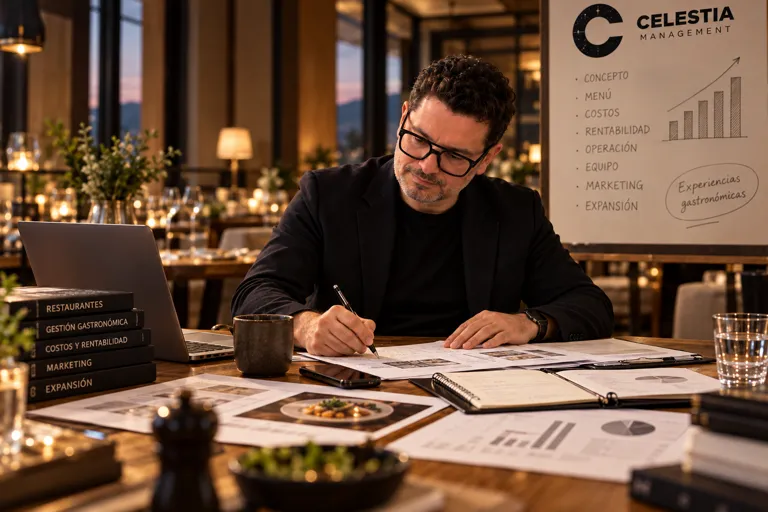
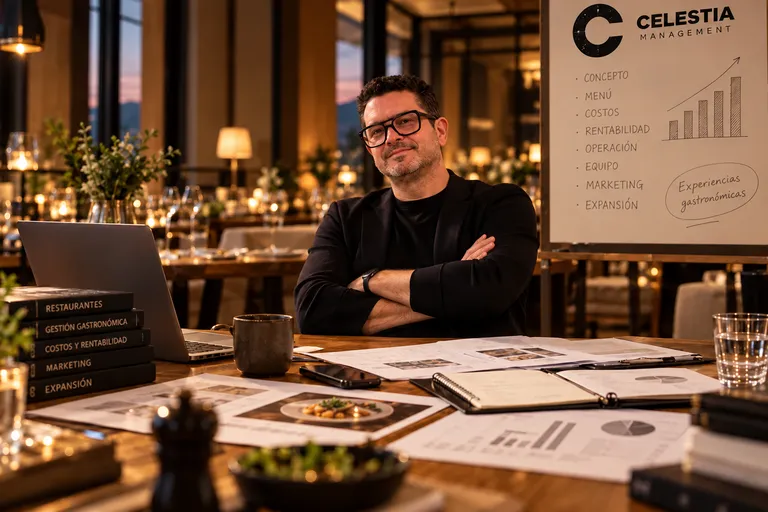
Management: secciones Para quién, Cómo trabajamos y Guía con el estilo de la rueda + nueva foto del hero
Claude-Session: https://claude.ai/code/session_01MiYNCjYw6ViFGJRujNwW8p

diff --git a/management/index.html b/management/index.html
@@ -95,6 +95,53 @@ section.hero{padding:0}
 .cm-box .err{color:#f3a08f;font-size:13px}
 @media(max-width:960px){.cu-g{grid-template-columns:1fr}.prod-g{grid-template-columns:120px 1fr}}
 .cm-aviso{position:fixed;left:50%;top:76px;transform:translateX(-50%);z-index:120;background:#FAF6EF;color:#0D1B2A;border:1px solid #C9A84C;border-radius:14px;padding:12px 18px;font-size:14px;box-shadow:0 14px 34px rgba(0,0,0,.3);max-width:calc(100% - 32px)}.cm-aviso a{color:#8A6A20}
+/* secciones con estilo de la rueda */
+.lx{position:relative;overflow:hidden;color:var(--cr);background:radial-gradient(70% 60% at 85% 0%,rgba(232,201,106,.10),transparent 60%),radial-gradient(60% 60% at 0% 100%,rgba(42,82,120,.35),transparent 60%),linear-gradient(180deg,#0B1726,#0D1B2A)}
+.lx::before{content:'';position:absolute;inset:0;background-image:radial-gradient(rgba(232,201,106,.35) 1px,transparent 1.2px);background-size:46px 46px;opacity:.12;pointer-events:none;mask-image:linear-gradient(180deg,transparent,#000 30%,#000 70%,transparent)}
+.lx .wrap{position:relative}
+.lx h2{color:var(--cr)}.lx h2 em{color:var(--gdl)}.lx .sub{color:rgba(250,246,239,.7)}.lx .k{color:var(--gdl)}
+.lx .k::before{content:'';display:inline-block;width:26px;height:1px;background:var(--gd);vertical-align:middle;margin-right:10px}
+/* para quién */
+.pq-g{display:grid;grid-template-columns:repeat(4,1fr);gap:16px;margin-top:38px}
+.pq{position:relative;border-radius:22px;padding:26px 22px 22px;background:linear-gradient(160deg,rgba(255,255,255,.07),rgba(255,255,255,.02));border:1px solid rgba(201,168,76,.25);backdrop-filter:blur(6px);transition:transform .35s cubic-bezier(.2,.8,.2,1),border-color .35s,box-shadow .35s;display:flex;flex-direction:column;gap:10px}
+.pq:hover{transform:translateY(-6px);border-color:rgba(232,201,106,.7);box-shadow:0 22px 50px rgba(0,0,0,.45),0 0 0 1px rgba(232,201,106,.15),0 0 40px rgba(232,201,106,.12)}
+.pq-n{position:absolute;right:18px;top:12px;font-family:'DM Serif Display',serif;font-size:44px;line-height:1;color:rgba(232,201,106,.14)}
+.pq-ic{width:58px;height:58px;border-radius:50%;display:flex;align-items:center;justify-content:center;background:radial-gradient(circle at 38% 30%,#FFF1BF,#E8C96A 45%,#9C7A28);box-shadow:0 8px 22px rgba(201,168,76,.35),inset 0 -4px 8px rgba(0,0,0,.2)}
+.pq-ic svg{width:28px;height:28px;fill:none;stroke:#0D1B2A;stroke-width:1.9;stroke-linecap:round;stroke-linejoin:round}
+.pq b{font-family:'DM Serif Display',serif;font-weight:400;font-size:23px;line-height:1.15;margin-top:6px}
+.pq p{font-size:14.5px;color:rgba(250,246,239,.7);line-height:1.6}
+.pq a{margin-top:auto;padding-top:8px;color:var(--gdl);font-size:13px;font-weight:600;text-decoration:none}
+.pq a:hover{text-decoration:underline}
+/* cómo trabajamos */
+.tl{position:relative;display:grid;grid-template-columns:repeat(4,1fr);gap:18px;margin-top:46px}
+.tl-line{position:absolute;left:12.5%;right:12.5%;top:36px;height:3px;background:rgba(201,168,76,.18);border-radius:3px}
+.tl-line i{position:absolute;inset:0 auto 0 0;width:0;background:linear-gradient(90deg,#9C7A28,#E8C96A,#FFF1BF);border-radius:3px;box-shadow:0 0 14px rgba(232,201,106,.6);transition:width 1.8s cubic-bezier(.2,.8,.2,1)}
+.tl-s{position:relative;text-align:center;padding:0 8px}
+.tl-b{position:relative;z-index:1;width:74px;height:74px;margin:0 auto 18px;border-radius:50%;display:flex;align-items:center;justify-content:center;font-family:'DM Serif Display',serif;font-size:32px;color:var(--gdl);background:radial-gradient(circle at 38% 28%,#2E5277,#173451 55%,#0B1826);border:2px solid rgba(232,201,106,.7);box-shadow:0 12px 26px rgba(0,0,0,.5),0 0 0 8px rgba(13,27,42,.9),0 0 30px rgba(232,201,106,.15);transition:.5s}
+.tl-s.on .tl-b{background:radial-gradient(circle at 38% 30%,#FFF1BF,#E8C96A 45%,#9C7A28);color:#0D1B2A;box-shadow:0 12px 26px rgba(0,0,0,.5),0 0 0 8px rgba(13,27,42,.9),0 0 36px rgba(232,201,106,.45)}
+.tl-s b{display:block;font-family:'DM Serif Display',serif;font-weight:400;font-size:22px;margin-bottom:6px}
+.tl-s p{font-size:14px;color:rgba(250,246,239,.7);line-height:1.6}
+.tl-s small{display:inline-block;margin-top:10px;font-size:11px;letter-spacing:.14em;text-transform:uppercase;color:var(--gdl);border:1px solid rgba(201,168,76,.35);border-radius:999px;padding:4px 11px}
+/* guía */
+.gu{display:grid;grid-template-columns:1.15fr .85fr;gap:22px;margin-top:34px;align-items:stretch}
+.gu-card{display:grid;grid-template-columns:240px 1fr;gap:24px;padding:24px;border-radius:26px;text-decoration:none;color:var(--cr);background:linear-gradient(150deg,rgba(232,201,106,.14),rgba(255,255,255,.03) 45%);border:1px solid rgba(232,201,106,.45);box-shadow:0 30px 60px rgba(0,0,0,.4);transition:transform .35s,box-shadow .35s}
+.gu-card:hover{transform:translateY(-4px);box-shadow:0 36px 70px rgba(0,0,0,.5),0 0 50px rgba(232,201,106,.15)}
+.gu-img{position:relative;border-radius:18px;overflow:hidden;transform:perspective(800px) rotateY(-8deg) rotateX(3deg);box-shadow:18px 22px 40px rgba(0,0,0,.55);transition:transform .5s}
+.gu-card:hover .gu-img{transform:perspective(800px) rotateY(0) rotateX(0)}
+.gu-img img{width:100%;height:100%;object-fit:cover;aspect-ratio:3/4}
+.gu-img span{position:absolute;left:10px;top:10px;background:rgba(13,27,42,.85);color:var(--gdl);border:1px solid rgba(201,168,76,.45);border-radius:999px;padding:4px 10px;font-size:11px;letter-spacing:.12em;text-transform:uppercase}
+.gu-b h3{font-family:'DM Serif Display',serif;font-weight:400;font-size:26px;line-height:1.18}
+.gu-pr{display:flex;align-items:center;gap:12px;margin:16px 0 6px}.gu-pr b{font-family:'DM Serif Display',serif;font-weight:400;font-size:46px;line-height:1;color:var(--gdl)}.gu-pr span{font-size:12px;line-height:1.4;color:rgba(250,246,239,.55);text-transform:uppercase;letter-spacing:.08em}
+.gu-b ul{list-style:none;margin:10px 0 20px}.gu-b li{padding:5px 0 5px 24px;position:relative;font-size:14.5px;color:rgba(250,246,239,.82)}.gu-b li::before{content:'✦';position:absolute;left:2px;color:var(--gdl)}
+.gu-n{display:flex;flex-direction:column;gap:10px}
+.gu-nk{font-size:11.5px;letter-spacing:.16em;text-transform:uppercase;color:rgba(250,246,239,.5);font-weight:600;margin-bottom:2px}
+.nt{display:flex;gap:14px;align-items:center;padding:14px 16px;border-radius:16px;text-decoration:none;color:var(--cr);background:rgba(255,255,255,.04);border:1px solid rgba(201,168,76,.2);transition:.3s}
+.nt:hover{border-color:var(--gdl);background:rgba(232,201,106,.07);transform:translateX(4px)}
+.nt-i{width:44px;height:44px;flex-shrink:0;border-radius:12px;display:flex;align-items:center;justify-content:center;background:rgba(232,201,106,.12);border:1px solid rgba(232,201,106,.35)}
+.nt-i svg{width:22px;height:22px;fill:none;stroke:#E8C96A;stroke-width:1.8;stroke-linecap:round;stroke-linejoin:round}
+.nt b{display:block;font-size:14.5px;line-height:1.35}.nt small{color:rgba(250,246,239,.55);font-size:12.5px}
+@media(max-width:1000px){.pq-g{grid-template-columns:1fr 1fr}.gu{grid-template-columns:1fr}}
+@media(max-width:700px){.pq-g{grid-template-columns:1fr}.tl{grid-template-columns:1fr;gap:26px}.tl-line{left:36px;right:auto;top:20px;bottom:20px;width:3px;height:auto}.tl-line i{width:100%!important;height:0;transition:height 1.8s}.tl-s{display:grid;grid-template-columns:74px 1fr;gap:4px 16px;text-align:left;padding:0}.tl-b{grid-row:span 3;margin:0}.tl-s small{justify-self:start}.gu-card{grid-template-columns:1fr}.gu-img{max-width:260px;transform:none}}
 /* rueda */
 .rd-sec{background:radial-gradient(90% 70% at 20% 30%,#16304a 0%,var(--nv) 60%);color:var(--cr)}
 .rd-sec h2{color:var(--cr)}.rd-sec h2 em{color:var(--gdl)}.rd-sec .sub{color:rgba(250,246,239,.7)}.rd-sec .k{color:var(--gdl)}
@@ -240,15 +287,15 @@ footer{background:var(--nv);color:rgba(250,246,239,.6);text-align:center;padding
   </aside>
 </section>
 
-<section><div class="wrap">
+<section class="lx lx-pq"><div class="wrap">
   <span class="k">Para quién</span>
   <h2>Si tenés un proyecto gastronómico, <em>esto es para vos</em></h2>
   <p class="sub">Trabajo con quienes están arrancando y con quienes ya tienen el local abierto y quieren que los números cierren.</p>
-  <div class="quien-g">
-    <div class="qc"><i>🚀</i><b>Vas a abrir tu primer local</b><p>Concepto, ubicación, carta, inversión y el plan para llegar al día de apertura sin sorpresas.</p></div>
-    <div class="qc"><i>📉</i><b>Vendés bien pero no te queda</b><p>Food cost, precios, mermas y compras: encontramos dónde se va la plata.</p></div>
-    <div class="qc"><i>📈</i><b>Querés crecer</b><p>Una sucursal, delivery, un producto nuevo o eventos: lo ordenamos antes de escalar.</p></div>
-    <div class="qc"><i>🍱</i><b>Producís comida</b><p>Viandas, congelados, pastelería o catering: estandarizar recetas, costos y procesos.</p></div>
+  <div class="pq-g">
+    <article class="pq"><span class="pq-n">01</span><span class="pq-ic"><svg viewBox="0 0 24 24"><path d="M5 21h14M6 21V10l6-5 6 5v11M10 21v-6h4v6"/></svg></span><b>Vas a abrir tu primer local</b><p>Concepto, ubicación, carta, inversión y el plan para llegar al día de apertura sin sorpresas.</p><a href="#diagnostico" data-m="0">Empezar por Concepto →</a></article>
+    <article class="pq"><span class="pq-n">02</span><span class="pq-ic"><svg viewBox="0 0 24 24"><path d="M3 6l6 6 4-4 8 8M21 11v5h-5"/></svg></span><b>Vendés bien pero no te queda</b><p>Food cost, precios, mermas y compras: encontramos dónde se va la plata.</p><a href="#diagnostico" data-m="2">Empezar por Costeo →</a></article>
+    <article class="pq"><span class="pq-n">03</span><span class="pq-ic"><svg viewBox="0 0 24 24"><path d="M3 17l6-6 4 4 8-8M15 7h6v6"/></svg></span><b>Querés crecer</b><p>Una sucursal, delivery, un producto nuevo o eventos: lo ordenamos antes de escalar.</p><a href="#diagnostico" data-m="5">Empezar por Finanzas →</a></article>
+    <article class="pq"><span class="pq-n">04</span><span class="pq-ic"><svg viewBox="0 0 24 24"><path d="M4 11h16v3a7 7 0 0 1-7 7h-2a7 7 0 0 1-7-7v-3zM8 7c0-1.5 1-2 1-3.5M12 7c0-1.5 1-2 1-3.5M16 7c0-1.5 1-2 1-3.5"/></svg></span><b>Producís comida</b><p>Viandas, congelados, pastelería o catering: estandarizar recetas, costos y procesos.</p><a href="#diagnostico" data-m="3">Empezar por Operación →</a></article>
   </div>
 </div></section>
 
@@ -326,14 +373,15 @@ footer{background:var(--nv);color:rgba(250,246,239,.6);text-align:center;padding
   <p class="rw-nota">Los valores son referenciales y pueden variar según el alcance y la complejidad del proyecto.</p>
 </div></section>
 
-<section><div class="wrap">
+<section class="lx lx-ct"><div class="wrap">
   <span class="k">Cómo trabajamos</span>
   <h2>Simple y <em>con números</em></h2>
-  <div class="pasos">
-    <div class="pa"><i>1</i><b>Diagnóstico</b><p>Una reunión sin costo para entender tu proyecto y dónde estás parado.</p></div>
-    <div class="pa"><i>2</i><b>Propuesta</b><p>Te paso qué módulos trabajar, tiempos y presupuesto cerrado.</p></div>
-    <div class="pa"><i>3</i><b>Implementación</b><p>Trabajamos juntos, en tu local y a distancia, con entregables concretos.</p></div>
-    <div class="pa"><i>4</i><b>Seguimiento</b><p>Medimos resultados y ajustamos hasta que el negocio camine solo.</p></div>
+  <div class="tl">
+    <div class="tl-line"><i id="tl-fill"></i></div>
+    <div class="tl-s"><span class="tl-b">1</span><b>Diagnóstico</b><p>Una reunión sin costo para entender tu proyecto y dónde estás parado.</p><small>Semana 0</small></div>
+    <div class="tl-s"><span class="tl-b">2</span><b>Propuesta</b><p>Te paso qué módulos trabajar, tiempos y presupuesto cerrado.</p><small>En 72 horas</small></div>
+    <div class="tl-s"><span class="tl-b">3</span><b>Implementación</b><p>Trabajamos juntos, en tu local y a distancia, con entregables concretos.</p><small>Por módulo</small></div>
+    <div class="tl-s"><span class="tl-b">4</span><b>Seguimiento</b><p>Medimos resultados y ajustamos hasta que el negocio camine solo.</p><small>Tablero mensual</small></div>
   </div>
 </div></section>
 
@@ -364,24 +412,25 @@ footer{background:var(--nv);color:rgba(250,246,239,.6);text-align:center;padding
   <p class="cu-nota">¿Ya tenés acceso? <a href="/management/login">Ingresá a tus cursos →</a></p>
 </div></section>
 
-<section id="herramientas" style="padding-top:20px"><div class="wrap">
+<section id="herramientas" class="lx lx-gu"><div class="wrap">
   <span class="k">Material de apoyo</span>
   <h2>Guía de costeo <em>y food cost</em></h2>
-  <div class="her">
-    <a class="prod prod-g" href="/management/guia">
-      <img src="/management/assets/guia.jpg" alt="Guía de costeo y food cost" loading="lazy">
-      <div>
-      <span class="k" style="margin:0">PDF + planilla Excel</span>
-      <h3>La herramienta práctica para costear cada plato y fijar precios con criterio</h3>
-      <div class="pr">$9.900 <small>· pago único · descarga inmediata</small></div>
-      <ul><li>Guía en PDF de 9 capítulos</li><li>Planillas: fichas técnicas, costo por plato y precios</li><li>Para restaurantes, cafés, viandas, rotiserías y delivery</li></ul>
-      <span class="btn">Obtener la guía →</span></div>
+  <div class="gu">
+    <a class="gu-card" href="/management/guia">
+      <div class="gu-img"><img src="/management/assets/guia.jpg" alt="Guía de costeo y food cost" loading="lazy"><span>PDF + Excel</span></div>
+      <div class="gu-b">
+        <h3>La herramienta práctica para costear cada plato y fijar precios con criterio</h3>
+        <div class="gu-pr"><b>$9.900</b><span>pago único<br>descarga inmediata</span></div>
+        <ul><li>Guía en PDF de 9 capítulos</li><li>Planillas: fichas técnicas, costo por plato y precios</li><li>Para restaurantes, cafés, viandas, rotiserías y delivery</li></ul>
+        <span class="bp">Obtener la guía →</span>
+      </div>
     </a>
-    <div class="notas">
-      <a class="nota" href="/blog/ingenieria-de-menu-como-se-arma-una-carta/"><i>📊</i><div><b>Ingeniería de menú: por qué la carta de un restaurante está armada así</b><small>Estrellas, caballitos de batalla, rompecabezas y perros</small></div></a>
-      <a class="nota" href="/blog/manipulacion-de-alimentos-reglas-de-oro/"><i>🧼</i><div><b>Manipulación de alimentos: las reglas de oro</b><small>Lo que tiene que saber todo tu equipo</small></div></a>
-      <a class="nota" href="/blog/como-regenerar-comida-para-que-quede-como-recien-hecha/"><i>🔥</i><div><b>Cómo regenerar comida para que quede recién hecha</b><small>La base de cualquier producción anticipada</small></div></a>
-      <a class="nota" href="/blog"><i>📚</i><div><b>Todas las notas del blog</b><small>Técnica de escuela contada simple</small></div></a>
+    <div class="gu-n">
+      <span class="gu-nk">Para leer gratis</span>
+      <a class="nt" href="/blog/ingenieria-de-menu-como-se-arma-una-carta/"><span class="nt-i"><svg viewBox="0 0 24 24"><path d="M4 20V10M10 20V4M16 20v-7M22 20H2"/></svg></span><span><b>Ingeniería de menú: por qué la carta está armada así</b><small>Estrellas, caballitos de batalla, rompecabezas y perros</small></span></a>
+      <a class="nt" href="/blog/manipulacion-de-alimentos-reglas-de-oro/"><span class="nt-i"><svg viewBox="0 0 24 24"><path d="M12 3l7 3v6c0 4.5-3 7.5-7 9-4-1.5-7-4.5-7-9V6l7-3zM9 12l2 2 4-4"/></svg></span><span><b>Manipulación de alimentos: las reglas de oro</b><small>Lo que tiene que saber todo tu equipo</small></span></a>
+      <a class="nt" href="/blog/como-regenerar-comida-para-que-quede-como-recien-hecha/"><span class="nt-i"><svg viewBox="0 0 24 24"><path d="M12 22c4 0 7-3 7-7 0-5-5-7-5-12-3 2-4 5-4 7-1-1-2-2-2-3-2 2-3 5-3 8 0 4 3 7 7 7z"/></svg></span><span><b>Cómo regenerar comida para que quede recién hecha</b><small>La base de cualquier producción anticipada</small></span></a>
+      <a class="nt" href="/blog"><span class="nt-i"><svg viewBox="0 0 24 24"><path d="M4 5a2 2 0 0 1 2-2h13v16H6a2 2 0 0 0-2 2V5zM4 21a2 2 0 0 1 2-2h13"/></svg></span><span><b>Todas las notas del blog</b><small>Técnica de escuela contada simple</small></span></a>
     </div>
   </div>
 </div></section>
@@ -664,6 +713,11 @@ document.querySelectorAll('#hc-g button,#rd-mini button').forEach((b) => b.addEv
   elegir(+b.dataset.i);
 }));
 ubicar(); pintar(); presupuesto();
+document.querySelectorAll('.pq a[data-m]').forEach((a) => a.addEventListener('click', () => setTimeout(() => elegir(+a.dataset.m), 450)));
+(() => { const tl = document.querySelector('.tl'); if (!tl) return; const pasos = [...tl.querySelectorAll('.tl-s')], fill = document.getElementById('tl-fill');
+  const go = () => { const v = innerWidth <= 700; fill.style[v ? 'height' : 'width'] = '100%'; pasos.forEach((p, i) => setTimeout(() => p.classList.add('on'), 350 + i * 420)); };
+  if (!('IntersectionObserver' in window)) return go();
+  const io = new IntersectionObserver((e) => { if (e[0].isIntersecting) { go(); io.disconnect(); } }, { threshold: .35 }); io.observe(tl); })();
 // vuelta de MercadoPago
 (() => { const q = new URLSearchParams(location.search).get('pago'); if (!q) return;
   const d = document.createElement('div'); d.className = 'cm-aviso';
